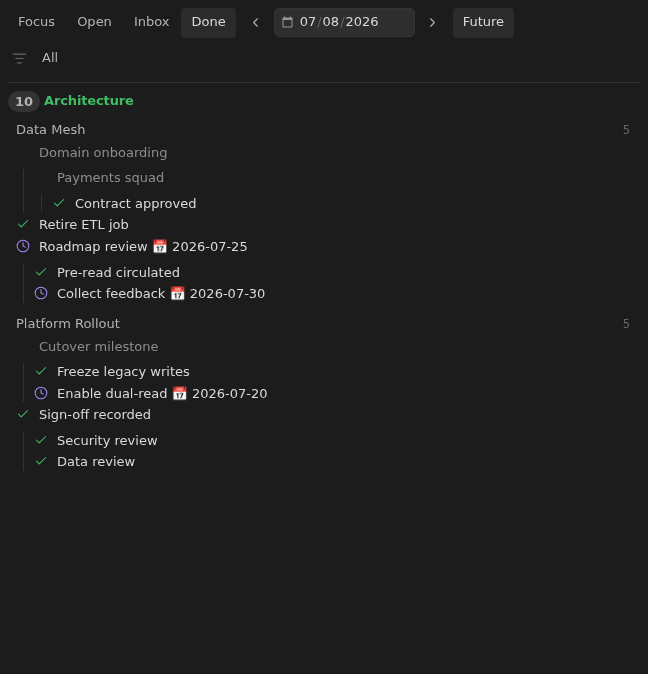
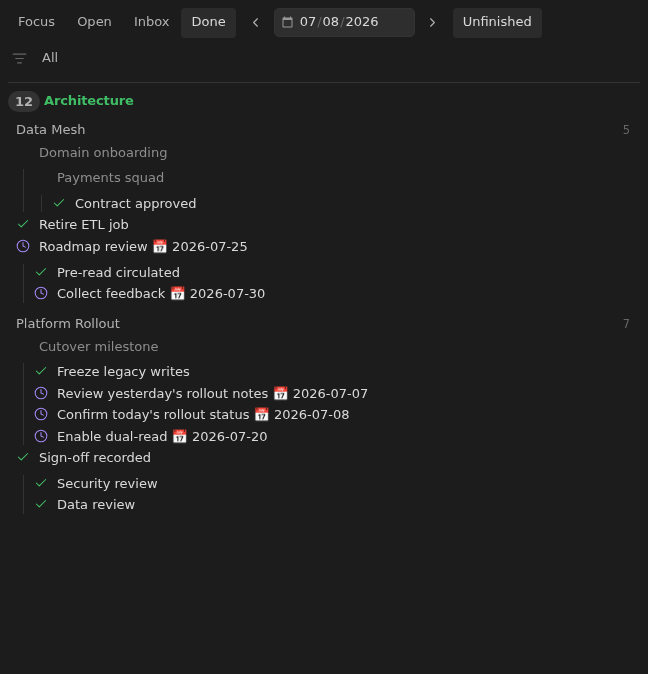
save

Changed region(s): [[0.0309, 0.5608, 0.5556, 0.7789], [0.7099, 0.0, 0.8025, 0.0623]]

diff --git a/docs/features/views-done/index.html b/docs/features/views-done/index.html
@@ -1,4 +1,4 @@
-<!DOCTYPE html><html lang="en" dir="ltr" data-theme="dark" data-has-toc data-has-sidebar class="astro-vdxcvpsm"><head><meta charset="utf-8"/><meta name="viewport" content="width=device-width, initial-scale=1"/><title>Done view | Tasks Eye</title><link rel="canonical" href="https://ggajos.github.io/ggajos-tasks-eye/features/views-done/"/><link rel="sitemap" href="/ggajos-tasks-eye/sitemap-index.xml"/><script>try{if(!localStorage.getItem('starlight-theme'))localStorage.setItem('starlight-theme','dark')}catch{}</script><link rel="shortcut icon" href="/ggajos-tasks-eye/favicon.svg" type="image/svg+xml"/><meta name="generator" content="Astro v7.0.7"/><meta name="generator" content="Starlight v0.41.3"/><meta property="og:title" content="Done view"/><meta property="og:type" content="article"/><meta property="og:url" content="https://ggajos.github.io/ggajos-tasks-eye/features/views-done/"/><meta property="og:locale" content="en"/><meta property="og:description" content="Done shows the day's completed tasks alongside upcoming unfinished tasks, preserving subtask nesting and grouping by context and note."/><meta property="og:site_name" content="Tasks Eye"/><meta name="twitter:card" content="summary_large_image"/><meta name="description" content="Done shows the day's completed tasks alongside upcoming unfinished tasks, preserving subtask nesting and grouping by context and note."/><script>
+<!DOCTYPE html><html lang="en" dir="ltr" data-theme="dark" data-has-toc data-has-sidebar class="astro-vdxcvpsm"><head><meta charset="utf-8"/><meta name="viewport" content="width=device-width, initial-scale=1"/><title>Done view | Tasks Eye</title><link rel="canonical" href="https://ggajos.github.io/ggajos-tasks-eye/features/views-done/"/><link rel="sitemap" href="/ggajos-tasks-eye/sitemap-index.xml"/><script>try{if(!localStorage.getItem('starlight-theme'))localStorage.setItem('starlight-theme','dark')}catch{}</script><link rel="shortcut icon" href="/ggajos-tasks-eye/favicon.svg" type="image/svg+xml"/><meta name="generator" content="Astro v7.0.7"/><meta name="generator" content="Starlight v0.41.3"/><meta property="og:title" content="Done view"/><meta property="og:type" content="article"/><meta property="og:url" content="https://ggajos.github.io/ggajos-tasks-eye/features/views-done/"/><meta property="og:locale" content="en"/><meta property="og:description" content="Done shows the day's completed tasks alongside unfinished tasks with due dates, preserving subtask nesting and grouping by context and note."/><meta property="og:site_name" content="Tasks Eye"/><meta name="twitter:card" content="summary_large_image"/><meta name="description" content="Done shows the day's completed tasks alongside unfinished tasks with due dates, preserving subtask nesting and grouping by context and note."/><script>
 	window.StarlightThemeProvider = (() => {
 		const storedTheme =
 			typeof localStorage !== 'undefined' && localStorage.getItem('starlight-theme');
@@ -72,24 +72,25 @@
 		})();
 	</script></sl-sidebar-state-persist><div class="md:sl-hidden"><div class="mobile-preferences sl-flex astro-b5gddk54"><div class="social-icons astro-b5gddk54"><a href="https://github.com/ggajos/ggajos-tasks-eye" rel="me" class="sl-flex astro-cg55etiy"><span class="sr-only astro-cg55etiy">GitHub</span><svg aria-hidden="true" class="astro-cg55etiy astro-n5k4ipy7" width="16" height="16" viewBox="0 0 24 24" fill="currentColor" style="--sl-icon-size: 1em;"><path d="M12 .3a12 12 0 0 0-3.8 23.38c.6.12.83-.26.83-.57L9 21.07c-3.34.72-4.04-1.61-4.04-1.61-.55-1.39-1.34-1.76-1.34-1.76-1.08-.74.09-.73.09-.73 1.2.09 1.83 1.24 1.83 1.24 1.08 1.83 2.81 1.3 3.5 1 .1-.78.42-1.31.76-1.61-2.67-.3-5.47-1.33-5.47-5.93 0-1.31.47-2.38 1.24-3.22-.14-.3-.54-1.52.1-3.18 0 0 1-.32 3.3 1.23a11.5 11.5 0 0 1 6 0c2.28-1.55 3.29-1.23 3.29-1.23.64 1.66.24 2.88.12 3.18a4.65 4.65 0 0 1 1.23 3.22c0 4.61-2.8 5.63-5.48 5.92.42.36.81 1.1.81 2.22l-.01 3.29c0 .31.2.69.82.57A12 12 0 0 0 12 .3Z"/></svg></a></div><starlight-theme-select><label style="--sl-select-width: 6.25em" class="astro-r2p65idu"><span class="sr-only astro-r2p65idu">Select theme</span><svg aria-hidden="true" class="icon label-icon astro-r2p65idu astro-n5k4ipy7" width="16" height="16" viewBox="0 0 24 24" fill="currentColor" style="--sl-icon-size: 1em;"><path d="M21 14h-1V7a3 3 0 0 0-3-3H7a3 3 0 0 0-3 3v7H3a1 1 0 0 0-1 1v2a3 3 0 0 0 3 3h14a3 3 0 0 0 3-3v-2a1 1 0 0 0-1-1ZM6 7a1 1 0 0 1 1-1h10a1 1 0 0 1 1 1v7H6V7Zm14 10a1 1 0 0 1-1 1H5a1 1 0 0 1-1-1v-1h16v1Z"/></svg><select autocomplete="off" class="astro-r2p65idu"><option value="dark" class="astro-r2p65idu">Dark</option><option value="light" class="astro-r2p65idu">Light</option><option value="auto" selected class="astro-r2p65idu">Auto</option></select><svg aria-hidden="true" class="icon caret astro-r2p65idu astro-n5k4ipy7" width="16" height="16" viewBox="0 0 24 24" fill="currentColor" style="--sl-icon-size: 1em;"><path d="M17 9.17a1 1 0 0 0-1.41 0L12 12.71 8.46 9.17a1 1 0 1 0-1.41 1.42l4.24 4.24a1.002 1.002 0 0 0 1.42 0L17 10.59a1.002 1.002 0 0 0 0-1.42Z"/></svg></label></starlight-theme-select><script>
 	StarlightThemeProvider.updatePickers();
-</script></div></div></div></div></nav><div class="main-frame astro-gqpr5s5a"><script type="module">var e=document.getElementById(`starlight__sidebar`),t=e?.querySelector(`sl-sidebar-state-persist`),n=`sl-sidebar-state`,r=()=>{let r=[],i=t?.dataset.hash||``;try{let e=sessionStorage.getItem(n),t=JSON.parse(e||`{}`);Array.isArray(t.open)&&t.hash===i&&(r=t.open)}catch{}return{hash:i,open:r,scroll:e?.scrollTop||0}},i=e=>{try{sessionStorage.setItem(n,JSON.stringify(e))}catch{}},a=()=>i(r()),o=(e,t)=>{let n=r();n.open[t]=e,i(n)};t?.addEventListener(`click`,e=>{if(!(e.target instanceof Element))return;let t=e.target.closest(`summary`)?.closest(`details`);if(!t)return;let n=t.querySelector(`sl-sidebar-restore`),r=parseInt(n?.dataset.index||``);isNaN(r)||o(!t.open,r)}),addEventListener(`visibilitychange`,()=>{document.visibilityState===`hidden`&&a()}),addEventListener(`pageHide`,a);</script><div class="lg:sl-flex astro-abfeecmu"><aside class="right-sidebar-container print:hidden astro-abfeecmu"><div class="right-sidebar astro-abfeecmu"><div class="lg:sl-hidden astro-q5mffni3"><mobile-starlight-toc data-min-h="2" data-max-h="3" class="astro-5ulgm6bh"><nav aria-labelledby="starlight__on-this-page--mobile" class="astro-5ulgm6bh"><details id="starlight__mobile-toc" class="astro-5ulgm6bh"><summary id="starlight__on-this-page--mobile" class="sl-flex astro-5ulgm6bh"><span class="toggle sl-flex astro-5ulgm6bh">On this page<svg aria-hidden="true" class="caret astro-5ulgm6bh astro-n5k4ipy7" width="16" height="16" viewBox="0 0 24 24" fill="currentColor" style="--sl-icon-size: 1rem;"><path d="m14.83 11.29-4.24-4.24a1 1 0 1 0-1.42 1.41L12.71 12l-3.54 3.54a1 1 0 0 0 0 1.41 1 1 0 0 0 .71.29 1 1 0 0 0 .71-.29l4.24-4.24a1.002 1.002 0 0 0 0-1.42Z"/></svg></span><span class="display-current astro-5ulgm6bh"></span></summary><div class="dropdown astro-5ulgm6bh"><ul class="isMobile astro-cxyftcne" style="--depth: 0;"><li style="--depth: 0;" class="astro-cxyftcne"><a href="#_top" style="--depth: 0;" class="astro-cxyftcne"><span style="--depth: 0;" class="astro-cxyftcne">Overview</span></a></li><li style="--depth: 0;" class="astro-cxyftcne"><a href="#why-it-matters" style="--depth: 0;" class="astro-cxyftcne"><span style="--depth: 0;" class="astro-cxyftcne">Why it matters</span></a></li><li style="--depth: 0;" class="astro-cxyftcne"><a href="#what-to-expect" style="--depth: 0;" class="astro-cxyftcne"><span style="--depth: 0;" class="astro-cxyftcne">What to expect</span></a></li><li style="--depth: 0;" class="astro-cxyftcne"><a href="#what-it-looks-like" style="--depth: 0;" class="astro-cxyftcne"><span style="--depth: 0;" class="astro-cxyftcne">What it looks like</span></a><ul class="isMobile astro-cxyftcne" style="--depth: 1;"><li style="--depth: 1;" class="astro-cxyftcne"><a href="#done-view" style="--depth: 1;" class="astro-cxyftcne"><span style="--depth: 1;" class="astro-cxyftcne">Done view</span></a></li><li style="--depth: 1;" class="astro-cxyftcne"><a href="#done-with-future-tasks-and-nesting" style="--depth: 1;" class="astro-cxyftcne"><span style="--depth: 1;" class="astro-cxyftcne">Done with future tasks and nesting</span></a></li></ul></li></ul></div></details></nav></mobile-starlight-toc><script type="module" src="/ggajos-tasks-eye/assets/starlight/MobileTableOfContents.astro_astro_type_script_index_0_lang.BcSo_yiZ.js"></script></div><div class="right-sidebar-panel sl-hidden lg:sl-block astro-q5mffni3"><div class="sl-container astro-q5mffni3"><starlight-toc data-min-h="2" data-max-h="3"><nav aria-labelledby="starlight__on-this-page"><h2 id="starlight__on-this-page">On this page</h2><ul class="astro-cxyftcne" style="--depth: 0;"><li style="--depth: 0;" class="astro-cxyftcne"><a href="#_top" style="--depth: 0;" class="astro-cxyftcne"><span style="--depth: 0;" class="astro-cxyftcne">Overview</span></a></li><li style="--depth: 0;" class="astro-cxyftcne"><a href="#why-it-matters" style="--depth: 0;" class="astro-cxyftcne"><span style="--depth: 0;" class="astro-cxyftcne">Why it matters</span></a></li><li style="--depth: 0;" class="astro-cxyftcne"><a href="#what-to-expect" style="--depth: 0;" class="astro-cxyftcne"><span style="--depth: 0;" class="astro-cxyftcne">What to expect</span></a></li><li style="--depth: 0;" class="astro-cxyftcne"><a href="#what-it-looks-like" style="--depth: 0;" class="astro-cxyftcne"><span style="--depth: 0;" class="astro-cxyftcne">What it looks like</span></a><ul class="astro-cxyftcne" style="--depth: 1;"><li style="--depth: 1;" class="astro-cxyftcne"><a href="#done-view" style="--depth: 1;" class="astro-cxyftcne"><span style="--depth: 1;" class="astro-cxyftcne">Done view</span></a></li><li style="--depth: 1;" class="astro-cxyftcne"><a href="#done-with-future-tasks-and-nesting" style="--depth: 1;" class="astro-cxyftcne"><span style="--depth: 1;" class="astro-cxyftcne">Done with future tasks and nesting</span></a></li></ul></li></ul></nav></starlight-toc><script type="module" src="/ggajos-tasks-eye/assets/starlight/TableOfContents.astro_astro_type_script_index_0_lang.Csloo1VZ.js"></script></div></div></div></aside><div class="main-pane astro-abfeecmu"><main data-pagefind-body class="astro-vdxcvpsm" lang="en" dir="ltr"><div class="content-panel astro-oil7k7jf"><div class="sl-container astro-oil7k7jf"><h1 id="_top" class="astro-2sm4b3ln">Done view</h1></div></div><div class="content-panel astro-oil7k7jf"><div class="sl-container astro-oil7k7jf"><div class="sl-markdown-content">
-<p>Done shows the day’s completed tasks alongside upcoming unfinished tasks, preserving subtask nesting and grouping by context and note.</p>
+</script></div></div></div></div></nav><div class="main-frame astro-gqpr5s5a"><script type="module">var e=document.getElementById(`starlight__sidebar`),t=e?.querySelector(`sl-sidebar-state-persist`),n=`sl-sidebar-state`,r=()=>{let r=[],i=t?.dataset.hash||``;try{let e=sessionStorage.getItem(n),t=JSON.parse(e||`{}`);Array.isArray(t.open)&&t.hash===i&&(r=t.open)}catch{}return{hash:i,open:r,scroll:e?.scrollTop||0}},i=e=>{try{sessionStorage.setItem(n,JSON.stringify(e))}catch{}},a=()=>i(r()),o=(e,t)=>{let n=r();n.open[t]=e,i(n)};t?.addEventListener(`click`,e=>{if(!(e.target instanceof Element))return;let t=e.target.closest(`summary`)?.closest(`details`);if(!t)return;let n=t.querySelector(`sl-sidebar-restore`),r=parseInt(n?.dataset.index||``);isNaN(r)||o(!t.open,r)}),addEventListener(`visibilitychange`,()=>{document.visibilityState===`hidden`&&a()}),addEventListener(`pageHide`,a);</script><div class="lg:sl-flex astro-abfeecmu"><aside class="right-sidebar-container print:hidden astro-abfeecmu"><div class="right-sidebar astro-abfeecmu"><div class="lg:sl-hidden astro-q5mffni3"><mobile-starlight-toc data-min-h="2" data-max-h="3" class="astro-5ulgm6bh"><nav aria-labelledby="starlight__on-this-page--mobile" class="astro-5ulgm6bh"><details id="starlight__mobile-toc" class="astro-5ulgm6bh"><summary id="starlight__on-this-page--mobile" class="sl-flex astro-5ulgm6bh"><span class="toggle sl-flex astro-5ulgm6bh">On this page<svg aria-hidden="true" class="caret astro-5ulgm6bh astro-n5k4ipy7" width="16" height="16" viewBox="0 0 24 24" fill="currentColor" style="--sl-icon-size: 1rem;"><path d="m14.83 11.29-4.24-4.24a1 1 0 1 0-1.42 1.41L12.71 12l-3.54 3.54a1 1 0 0 0 0 1.41 1 1 0 0 0 .71.29 1 1 0 0 0 .71-.29l4.24-4.24a1.002 1.002 0 0 0 0-1.42Z"/></svg></span><span class="display-current astro-5ulgm6bh"></span></summary><div class="dropdown astro-5ulgm6bh"><ul class="isMobile astro-cxyftcne" style="--depth: 0;"><li style="--depth: 0;" class="astro-cxyftcne"><a href="#_top" style="--depth: 0;" class="astro-cxyftcne"><span style="--depth: 0;" class="astro-cxyftcne">Overview</span></a></li><li style="--depth: 0;" class="astro-cxyftcne"><a href="#why-it-matters" style="--depth: 0;" class="astro-cxyftcne"><span style="--depth: 0;" class="astro-cxyftcne">Why it matters</span></a></li><li style="--depth: 0;" class="astro-cxyftcne"><a href="#what-to-expect" style="--depth: 0;" class="astro-cxyftcne"><span style="--depth: 0;" class="astro-cxyftcne">What to expect</span></a></li><li style="--depth: 0;" class="astro-cxyftcne"><a href="#what-it-looks-like" style="--depth: 0;" class="astro-cxyftcne"><span style="--depth: 0;" class="astro-cxyftcne">What it looks like</span></a><ul class="isMobile astro-cxyftcne" style="--depth: 1;"><li style="--depth: 1;" class="astro-cxyftcne"><a href="#done-view" style="--depth: 1;" class="astro-cxyftcne"><span style="--depth: 1;" class="astro-cxyftcne">Done view</span></a></li><li style="--depth: 1;" class="astro-cxyftcne"><a href="#done-with-unfinished-tasks-and-nesting" style="--depth: 1;" class="astro-cxyftcne"><span style="--depth: 1;" class="astro-cxyftcne">Done with unfinished tasks and nesting</span></a></li></ul></li></ul></div></details></nav></mobile-starlight-toc><script type="module" src="/ggajos-tasks-eye/assets/starlight/MobileTableOfContents.astro_astro_type_script_index_0_lang.BcSo_yiZ.js"></script></div><div class="right-sidebar-panel sl-hidden lg:sl-block astro-q5mffni3"><div class="sl-container astro-q5mffni3"><starlight-toc data-min-h="2" data-max-h="3"><nav aria-labelledby="starlight__on-this-page"><h2 id="starlight__on-this-page">On this page</h2><ul class="astro-cxyftcne" style="--depth: 0;"><li style="--depth: 0;" class="astro-cxyftcne"><a href="#_top" style="--depth: 0;" class="astro-cxyftcne"><span style="--depth: 0;" class="astro-cxyftcne">Overview</span></a></li><li style="--depth: 0;" class="astro-cxyftcne"><a href="#why-it-matters" style="--depth: 0;" class="astro-cxyftcne"><span style="--depth: 0;" class="astro-cxyftcne">Why it matters</span></a></li><li style="--depth: 0;" class="astro-cxyftcne"><a href="#what-to-expect" style="--depth: 0;" class="astro-cxyftcne"><span style="--depth: 0;" class="astro-cxyftcne">What to expect</span></a></li><li style="--depth: 0;" class="astro-cxyftcne"><a href="#what-it-looks-like" style="--depth: 0;" class="astro-cxyftcne"><span style="--depth: 0;" class="astro-cxyftcne">What it looks like</span></a><ul class="astro-cxyftcne" style="--depth: 1;"><li style="--depth: 1;" class="astro-cxyftcne"><a href="#done-view" style="--depth: 1;" class="astro-cxyftcne"><span style="--depth: 1;" class="astro-cxyftcne">Done view</span></a></li><li style="--depth: 1;" class="astro-cxyftcne"><a href="#done-with-unfinished-tasks-and-nesting" style="--depth: 1;" class="astro-cxyftcne"><span style="--depth: 1;" class="astro-cxyftcne">Done with unfinished tasks and nesting</span></a></li></ul></li></ul></nav></starlight-toc><script type="module" src="/ggajos-tasks-eye/assets/starlight/TableOfContents.astro_astro_type_script_index_0_lang.Csloo1VZ.js"></script></div></div></div></aside><div class="main-pane astro-abfeecmu"><main data-pagefind-body class="astro-vdxcvpsm" lang="en" dir="ltr"><div class="content-panel astro-oil7k7jf"><div class="sl-container astro-oil7k7jf"><h1 id="_top" class="astro-2sm4b3ln">Done view</h1></div></div><div class="content-panel astro-oil7k7jf"><div class="sl-container astro-oil7k7jf"><div class="sl-markdown-content">
+<p>Done shows the day’s completed tasks alongside unfinished tasks with due dates, preserving subtask nesting and grouping by context and note.</p>
 <div class="sl-heading-wrapper level-h2"><h2 id="why-it-matters">Why it matters</h2><a class="sl-anchor-link" href="#why-it-matters"><span aria-hidden="true" class="sl-anchor-icon"><svg width="16" height="16" viewBox="0 0 24 24" fill="currentColor"><path d="m12.11 15.39-3.88 3.88a2.52 2.52 0 0 1-3.5 0 2.47 2.47 0 0 1 0-3.5l3.88-3.88a1 1 0 1 0-1.42-1.42l-3.88 3.89a4.48 4.48 0 0 0 6.33 6.33l3.89-3.88a1 1 0 0 0-1.42-1.42m8.58-12.08a4.49 4.49 0 0 0-6.33 0l-3.89 3.88a1 1 0 1 0 1.42 1.42l3.88-3.88a2.52 2.52 0 0 1 3.5 0 2.47 2.47 0 0 1 0 3.5l-3.88 3.88a1 1 0 0 0 0 1.42 1 1 0 0 0 1.42 0l3.88-3.89a4.49 4.49 0 0 0 0-6.33M8.83 15.17a1 1 0 0 0 .71.29 1 1 0 0 0 .71-.29l4.92-4.92a1 1 0 1 0-1.42-1.42l-4.92 4.92a1 1 0 0 0 0 1.42"></path></svg></span><span class="sr-only" data-pagefind-ignore>Section titled “Why it matters”</span></a></div>
 <p>Completed work is useful after the checkbox changes. Done gives that history a
 focused view where the user can review a day, switch dates, and see the work
 grouped by the same contexts used on the boards without opening another view.</p>
 <p>The view reads completion dates from Tasks metadata so it does not need a
-separate history log. A “Future” toggle extends the day’s history with any
-unfinished tasks that carry a future due date, but only inside notes that also
-completed a task on the selected day, so the view stays a focused overview of
-what happened and what is coming next for the notes you touched. Subtask nesting
-is reproduced using Tasks’ emoji format, so completed subtasks stay under their
+separate history log. An “Unfinished” toggle extends the day’s history with any
+unfinished task that carries a due date, whether that date is past, today, or
+future. It only includes those tasks inside notes that also completed a task on
+the selected day, so the view stays a focused overview of what happened and
+what still needs attention in the notes you touched. Subtask nesting is
+reproduced using Tasks’ emoji format, so completed subtasks stay under their
 parent instead of collapsing into a flat list.</p>
 <div class="sl-heading-wrapper level-h2"><h2 id="what-to-expect">What to expect</h2><a class="sl-anchor-link" href="#what-to-expect"><span aria-hidden="true" class="sl-anchor-icon"><svg width="16" height="16" viewBox="0 0 24 24" fill="currentColor"><path d="m12.11 15.39-3.88 3.88a2.52 2.52 0 0 1-3.5 0 2.47 2.47 0 0 1 0-3.5l3.88-3.88a1 1 0 1 0-1.42-1.42l-3.88 3.89a4.48 4.48 0 0 0 6.33 6.33l3.89-3.88a1 1 0 0 0-1.42-1.42m8.58-12.08a4.49 4.49 0 0 0-6.33 0l-3.89 3.88a1 1 0 1 0 1.42 1.42l3.88-3.88a2.52 2.52 0 0 1 3.5 0 2.47 2.47 0 0 1 0 3.5l-3.88 3.88a1 1 0 0 0 0 1.42 1 1 0 0 0 1.42 0l3.88-3.89a4.49 4.49 0 0 0 0-6.33M8.83 15.17a1 1 0 0 0 .71.29 1 1 0 0 0 .71-.29l4.92-4.92a1 1 0 1 0-1.42-1.42l-4.92 4.92a1 1 0 0 0 0 1.42"></path></svg></span><span class="sr-only" data-pagefind-ignore>Section titled “What to expect”</span></a></div>
 <ul>
 <li>Done is the fifth view in Tasks Eye navigation.</li>
 <li>Completed tasks are selected by Tasks completion date.</li>
-<li>A ‘Future’ toggle adds upcoming unfinished tasks, but only inside notes that also have a task completed on the selected day.</li>
+<li>An ‘Unfinished’ toggle adds every unfinished task with a due date, but only inside notes that also have a task completed on the selected day.</li>
 <li>Subtask nesting is preserved; ancestors of a matching task appear as muted context rows without a completion check.</li>
 <li>Tasks are grouped by folder-derived context and note name.</li>
 <li>The date picker and previous/next/today controls change the reviewed date.</li>
@@ -126,5 +127,5 @@ parent instead of collapsing into a flat list.</p>
 	customElements.define('starlight-tabs-restore', StarlightTabsRestore);
 })()
 </script><starlight-tabs data-sync-key="feature-screenshot-theme" class="astro-hbt4ddzs"><div class="tablist-wrapper not-content astro-hbt4ddzs"><ul role="tablist" class="astro-hbt4ddzs"><li role="presentation" class="tab astro-hbt4ddzs"><a role="tab" href="#tab-panel-27" id="tab-27" aria-selected="true" tabindex="0" class="astro-hbt4ddzs">Dark Minimal</a></li><li role="presentation" class="tab astro-hbt4ddzs"><a role="tab" href="#tab-panel-28" id="tab-28" aria-selected="false" tabindex="-1" class="astro-hbt4ddzs">Dark</a></li><li role="presentation" class="tab astro-hbt4ddzs"><a role="tab" href="#tab-panel-29" id="tab-29" aria-selected="false" tabindex="-1" class="astro-hbt4ddzs">Light</a></li></ul></div><div id="tab-panel-27" aria-labelledby="tab-27" role="tabpanel" tabindex="0"><figure class="feature-shot"><img src="../../assets/features/views-done/dark-minimal/done-view.png" alt="Tasks Eye Done view showing completed architecture decisions grouped by context and note in Dark Minimal" loading="lazy"><figcaption>Done view · Dark Minimal</figcaption></figure></div><div id="tab-panel-28" aria-labelledby="tab-28" role="tabpanel" tabindex="0" hidden><figure class="feature-shot"><img src="../../assets/features/views-done/dark/done-view.png" alt="Tasks Eye Done view showing completed architecture decisions grouped by context and note in Dark" loading="lazy"><figcaption>Done view · Dark</figcaption></figure></div><div id="tab-panel-29" aria-labelledby="tab-29" role="tabpanel" tabindex="0" hidden><figure class="feature-shot"><img src="../../assets/features/views-done/light/done-view.png" alt="Tasks Eye Done view showing completed architecture decisions grouped by context and note in Light" loading="lazy"><figcaption>Done view · Light</figcaption></figure></div><starlight-tabs-restore class="astro-hbt4ddzs"></starlight-tabs-restore></starlight-tabs><script type="module">var e=class e extends HTMLElement{static#e=new Map;tabs;panels;#t;#n=`starlight-synced-tabs__`;constructor(){super();let t=this.querySelector(`[role="tablist"]`);if(this.tabs=[...t.querySelectorAll(`[role="tab"]`)],this.panels=[...this.querySelectorAll(`:scope > [role="tabpanel"]`)],this.#t=this.dataset.syncKey,this.#t){let t=e.#e.get(this.#t)??[];t.push(this),e.#e.set(this.#t,t)}this.tabs.forEach((e,n)=>{e.addEventListener(`click`,e=>{e.preventDefault();let r=t.querySelector(`[aria-selected="true"]`);e.currentTarget!==r&&this.switchTab(e.currentTarget,n)}),e.addEventListener(`keydown`,e=>{let t=this.tabs.indexOf(e.currentTarget),n=e.key===`ArrowLeft`?t-1:e.key===`ArrowRight`?t+1:e.key===`Home`?0:e.key===`End`?this.tabs.length-1:null;n!==null&&this.tabs[n]&&(e.preventDefault(),this.switchTab(this.tabs[n],n))})})}switchTab(t,n,r=!0){if(!t)return;let i=r?this.getBoundingClientRect().top:0;this.tabs.forEach(e=>{e.setAttribute(`aria-selected`,`false`),e.setAttribute(`tabindex`,`-1`)}),this.panels.forEach(e=>{e.hidden=!0});let a=this.panels[n];a&&(a.hidden=!1),t.removeAttribute(`tabindex`),t.setAttribute(`aria-selected`,`true`),r&&(t.focus(),e.#i(this,t),window.scrollTo({top:window.scrollY+(this.getBoundingClientRect().top-i),behavior:`instant`}))}#r(e){!this.#t||typeof localStorage>`u`||localStorage.setItem(this.#n+this.#t,e)}static#i(t,n){let r=t.#t,i=e.#a(n);if(!r||!i)return;let a=e.#e.get(r);if(a){for(let n of a){if(n===t)continue;let r=n.tabs.findIndex(t=>e.#a(t)===i);r!==-1&&n.switchTab(n.tabs[r],r,!1)}t.#r(i)}}static#a(e){return e.textContent?.trim()}};customElements.define(`starlight-tabs`,e);</script>
-<div class="sl-heading-wrapper level-h3"><h3 id="done-with-future-tasks-and-nesting">Done with future tasks and nesting</h3><a class="sl-anchor-link" href="#done-with-future-tasks-and-nesting"><span aria-hidden="true" class="sl-anchor-icon"><svg width="16" height="16" viewBox="0 0 24 24" fill="currentColor"><path d="m12.11 15.39-3.88 3.88a2.52 2.52 0 0 1-3.5 0 2.47 2.47 0 0 1 0-3.5l3.88-3.88a1 1 0 1 0-1.42-1.42l-3.88 3.89a4.48 4.48 0 0 0 6.33 6.33l3.89-3.88a1 1 0 0 0-1.42-1.42m8.58-12.08a4.49 4.49 0 0 0-6.33 0l-3.89 3.88a1 1 0 1 0 1.42 1.42l3.88-3.88a2.52 2.52 0 0 1 3.5 0 2.47 2.47 0 0 1 0 3.5l-3.88 3.88a1 1 0 0 0 0 1.42 1 1 0 0 0 1.42 0l3.88-3.89a4.49 4.49 0 0 0 0-6.33M8.83 15.17a1 1 0 0 0 .71.29 1 1 0 0 0 .71-.29l4.92-4.92a1 1 0 1 0-1.42-1.42l-4.92 4.92a1 1 0 0 0 0 1.42"></path></svg></span><span class="sr-only" data-pagefind-ignore>Section titled “Done with future tasks and nesting”</span></a></div>
-<starlight-tabs data-sync-key="feature-screenshot-theme" class="astro-hbt4ddzs"><div class="tablist-wrapper not-content astro-hbt4ddzs"><ul role="tablist" class="astro-hbt4ddzs"><li role="presentation" class="tab astro-hbt4ddzs"><a role="tab" href="#tab-panel-30" id="tab-30" aria-selected="true" tabindex="0" class="astro-hbt4ddzs">Dark Minimal</a></li><li role="presentation" class="tab astro-hbt4ddzs"><a role="tab" href="#tab-panel-31" id="tab-31" aria-selected="false" tabindex="-1" class="astro-hbt4ddzs">Dark</a></li><li role="presentation" class="tab astro-hbt4ddzs"><a role="tab" href="#tab-panel-32" id="tab-32" aria-selected="false" tabindex="-1" class="astro-hbt4ddzs">Light</a></li></ul></div><div id="tab-panel-30" aria-labelledby="tab-30" role="tabpanel" tabindex="0"><figure class="feature-shot"><img src="../../assets/features/views-done/dark-minimal/done-future-nesting.png" alt="Tasks Eye Done view with Show Future enabled, showing completed and upcoming tasks nested under their parent tasks in Dark Minimal" loading="lazy"><figcaption>Done with future tasks and nesting · Dark Minimal</figcaption></figure></div><div id="tab-panel-31" aria-labelledby="tab-31" role="tabpanel" tabindex="0" hidden><figure class="feature-shot"><img src="../../assets/features/views-done/dark/done-future-nesting.png" alt="Tasks Eye Done view with Show Future enabled, showing completed and upcoming tasks nested under their parent tasks in Dark" loading="lazy"><figcaption>Done with future tasks and nesting · Dark</figcaption></figure></div><div id="tab-panel-32" aria-labelledby="tab-32" role="tabpanel" tabindex="0" hidden><figure class="feature-shot"><img src="../../assets/features/views-done/light/done-future-nesting.png" alt="Tasks Eye Done view with Show Future enabled, showing completed and upcoming tasks nested under their parent tasks in Light" loading="lazy"><figcaption>Done with future tasks and nesting · Light</figcaption></figure></div><starlight-tabs-restore class="astro-hbt4ddzs"></starlight-tabs-restore></starlight-tabs></div><footer class="sl-flex astro-xhxjzfa7"><div class="meta sl-flex astro-xhxjzfa7"></div><div class="pagination-links print:hidden astro-jgq3vlii" dir="ltr"><a href="/ggajos-tasks-eye/features/views-inbox/" rel="prev" class="astro-jgq3vlii"><svg aria-hidden="true" class="astro-jgq3vlii astro-n5k4ipy7" width="16" height="16" viewBox="0 0 24 24" fill="currentColor" style="--sl-icon-size: 1.5rem;"><path d="M17 11H9.41l3.3-3.29a1.004 1.004 0 1 0-1.42-1.42l-5 5a1 1 0 0 0-.21.33 1 1 0 0 0 0 .76 1 1 0 0 0 .21.33l5 5a1.002 1.002 0 0 0 1.639-.325 1 1 0 0 0-.219-1.095L9.41 13H17a1 1 0 0 0 0-2Z"/></svg><span class="astro-jgq3vlii">Previous<br class="astro-jgq3vlii"><span class="link-title astro-jgq3vlii">Repair notes in Inbox</span></span></a><a href="/ggajos-tasks-eye/features/actions-step-note-status/" rel="next" class="astro-jgq3vlii"><svg aria-hidden="true" class="astro-jgq3vlii astro-n5k4ipy7" width="16" height="16" viewBox="0 0 24 24" fill="currentColor" style="--sl-icon-size: 1.5rem;"><path d="M17.92 11.62a1.001 1.001 0 0 0-.21-.33l-5-5a1.003 1.003 0 1 0-1.42 1.42l3.3 3.29H7a1 1 0 0 0 0 2h7.59l-3.3 3.29a1.002 1.002 0 0 0 .325 1.639 1 1 0 0 0 1.095-.219l5-5a1 1 0 0 0 .21-.33 1 1 0 0 0 0-.76Z"/></svg><span class="astro-jgq3vlii">Next<br class="astro-jgq3vlii"><span class="link-title astro-jgq3vlii">Step a note through states</span></span></a></div></footer></div></div></main></div></div></div></div></body></html>
+<div class="sl-heading-wrapper level-h3"><h3 id="done-with-unfinished-tasks-and-nesting">Done with unfinished tasks and nesting</h3><a class="sl-anchor-link" href="#done-with-unfinished-tasks-and-nesting"><span aria-hidden="true" class="sl-anchor-icon"><svg width="16" height="16" viewBox="0 0 24 24" fill="currentColor"><path d="m12.11 15.39-3.88 3.88a2.52 2.52 0 0 1-3.5 0 2.47 2.47 0 0 1 0-3.5l3.88-3.88a1 1 0 1 0-1.42-1.42l-3.88 3.89a4.48 4.48 0 0 0 6.33 6.33l3.89-3.88a1 1 0 0 0-1.42-1.42m8.58-12.08a4.49 4.49 0 0 0-6.33 0l-3.89 3.88a1 1 0 1 0 1.42 1.42l3.88-3.88a2.52 2.52 0 0 1 3.5 0 2.47 2.47 0 0 1 0 3.5l-3.88 3.88a1 1 0 0 0 0 1.42 1 1 0 0 0 1.42 0l3.88-3.89a4.49 4.49 0 0 0 0-6.33M8.83 15.17a1 1 0 0 0 .71.29 1 1 0 0 0 .71-.29l4.92-4.92a1 1 0 1 0-1.42-1.42l-4.92 4.92a1 1 0 0 0 0 1.42"></path></svg></span><span class="sr-only" data-pagefind-ignore>Section titled “Done with unfinished tasks and nesting”</span></a></div>
+<starlight-tabs data-sync-key="feature-screenshot-theme" class="astro-hbt4ddzs"><div class="tablist-wrapper not-content astro-hbt4ddzs"><ul role="tablist" class="astro-hbt4ddzs"><li role="presentation" class="tab astro-hbt4ddzs"><a role="tab" href="#tab-panel-30" id="tab-30" aria-selected="true" tabindex="0" class="astro-hbt4ddzs">Dark Minimal</a></li><li role="presentation" class="tab astro-hbt4ddzs"><a role="tab" href="#tab-panel-31" id="tab-31" aria-selected="false" tabindex="-1" class="astro-hbt4ddzs">Dark</a></li><li role="presentation" class="tab astro-hbt4ddzs"><a role="tab" href="#tab-panel-32" id="tab-32" aria-selected="false" tabindex="-1" class="astro-hbt4ddzs">Light</a></li></ul></div><div id="tab-panel-30" aria-labelledby="tab-30" role="tabpanel" tabindex="0"><figure class="feature-shot"><img src="../../assets/features/views-done/dark-minimal/done-future-nesting.png" alt="Tasks Eye Done view with Show Unfinished enabled, showing completed and unfinished due-dated tasks nested under their parent tasks in Dark Minimal" loading="lazy"><figcaption>Done with unfinished tasks and nesting · Dark Minimal</figcaption></figure></div><div id="tab-panel-31" aria-labelledby="tab-31" role="tabpanel" tabindex="0" hidden><figure class="feature-shot"><img src="../../assets/features/views-done/dark/done-future-nesting.png" alt="Tasks Eye Done view with Show Unfinished enabled, showing completed and unfinished due-dated tasks nested under their parent tasks in Dark" loading="lazy"><figcaption>Done with unfinished tasks and nesting · Dark</figcaption></figure></div><div id="tab-panel-32" aria-labelledby="tab-32" role="tabpanel" tabindex="0" hidden><figure class="feature-shot"><img src="../../assets/features/views-done/light/done-future-nesting.png" alt="Tasks Eye Done view with Show Unfinished enabled, showing completed and unfinished due-dated tasks nested under their parent tasks in Light" loading="lazy"><figcaption>Done with unfinished tasks and nesting · Light</figcaption></figure></div><starlight-tabs-restore class="astro-hbt4ddzs"></starlight-tabs-restore></starlight-tabs></div><footer class="sl-flex astro-xhxjzfa7"><div class="meta sl-flex astro-xhxjzfa7"></div><div class="pagination-links print:hidden astro-jgq3vlii" dir="ltr"><a href="/ggajos-tasks-eye/features/views-inbox/" rel="prev" class="astro-jgq3vlii"><svg aria-hidden="true" class="astro-jgq3vlii astro-n5k4ipy7" width="16" height="16" viewBox="0 0 24 24" fill="currentColor" style="--sl-icon-size: 1.5rem;"><path d="M17 11H9.41l3.3-3.29a1.004 1.004 0 1 0-1.42-1.42l-5 5a1 1 0 0 0-.21.33 1 1 0 0 0 0 .76 1 1 0 0 0 .21.33l5 5a1.002 1.002 0 0 0 1.639-.325 1 1 0 0 0-.219-1.095L9.41 13H17a1 1 0 0 0 0-2Z"/></svg><span class="astro-jgq3vlii">Previous<br class="astro-jgq3vlii"><span class="link-title astro-jgq3vlii">Repair notes in Inbox</span></span></a><a href="/ggajos-tasks-eye/features/actions-step-note-status/" rel="next" class="astro-jgq3vlii"><svg aria-hidden="true" class="astro-jgq3vlii astro-n5k4ipy7" width="16" height="16" viewBox="0 0 24 24" fill="currentColor" style="--sl-icon-size: 1.5rem;"><path d="M17.92 11.62a1.001 1.001 0 0 0-.21-.33l-5-5a1.003 1.003 0 1 0-1.42 1.42l3.3 3.29H7a1 1 0 0 0 0 2h7.59l-3.3 3.29a1.002 1.002 0 0 0 .325 1.639 1 1 0 0 0 1.095-.219l5-5a1 1 0 0 0 .21-.33 1 1 0 0 0 0-.76Z"/></svg><span class="astro-jgq3vlii">Next<br class="astro-jgq3vlii"><span class="link-title astro-jgq3vlii">Step a note through states</span></span></a></div></footer></div></div></main></div></div></div></div></body></html>

diff --git a/features/views-done/views-done.test.ts b/features/views-done/views-done.test.ts
@@ -1,4 +1,4 @@
-import { describe, expect, it } from "vitest";
+import { describe, expect, it, vi } from "vitest";
 import type { StatusNoteGroup, StatusTaskNode } from "../../src/completedTasks";
 import {
   cleanCompletedTaskText,
@@ -7,6 +7,7 @@ import {
 import { file } from "../testSupport";
 
 const DATE = "2026-07-08";
+const PAST = "2026-07-07";
 const FUTURE = "2099-01-01";
 
 function groupsFor(
@@ -45,29 +46,54 @@ status: closed
     expect(groups[0]!.matchedCount).toBe(1);
   });
 
-  it("shows future tasks only in notes with a same-day completion when showFuture is on", () => {
-    const markdown = `---
+  it("shows unfinished tasks with past, present, and future due dates when enabled", () => {
+    const configuredToday = (window as Window & { TASKS_EYE_TODAY?: string })
+      .TASKS_EYE_TODAY;
+    vi.useFakeTimers();
+    vi.setSystemTime(new Date(2026, 6, 8, 12));
+    delete (window as Window & { TASKS_EYE_TODAY?: string }).TASKS_EYE_TODAY;
+
+    try {
+      const markdown = `---
 status: open
 ---
 
 - [x] Shipped today ✅ 2026-07-08
+- [ ] Catch up on yesterday's work 📅 ${PAST}
+- [ ] Handle today's follow-up 📅 ${DATE}
 - [ ] Plan next quarter 📅 ${FUTURE}
+- [ ] Capture an undated thought
 `;
-    const on = groupsFor(markdown, { showFuture: true });
-    const future = flatten(on[0]!.nodes).find((n) => n.text.includes("Plan"));
-    expect(future?.matched).toBe(true);
-    expect(future?.future).toBe(true);
-    expect(future?.completed).toBe(false);
-    expect(on[0]!.matchedCount).toBe(2);
+      const on = groupsFor(markdown, { showFuture: true });
+      const matched = flatten(on[0]!.nodes).filter((n) => n.matched);
+      expect(matched.map((n) => n.text)).toEqual([
+        "Shipped today",
+        `Catch up on yesterday's work 📅 ${PAST}`,
+        `Handle today's follow-up 📅 ${DATE}`,
+        `Plan next quarter 📅 ${FUTURE}`,
+      ]);
+      expect(matched.slice(1).every((n) => n.future)).toBe(true);
+      expect(matched.slice(1).every((n) => !n.completed)).toBe(true);
+      expect(on[0]!.matchedCount).toBe(4);
 
-    const off = groupsFor(markdown, { showFuture: false });
-    expect(flatten(off[0]!.nodes).some((n) => n.text.includes("Plan"))).toBe(
-      false,
-    );
-    expect(off[0]!.matchedCount).toBe(1);
+      const off = groupsFor(markdown, { showFuture: false });
+      expect(flatten(off[0]!.nodes).map((n) => n.text)).toEqual([
+        "Shipped today",
+      ]);
+      expect(off[0]!.matchedCount).toBe(1);
+    } finally {
+      if (configuredToday === undefined) {
+        delete (window as Window & { TASKS_EYE_TODAY?: string })
+          .TASKS_EYE_TODAY;
+      } else {
+        (window as Window & { TASKS_EYE_TODAY?: string }).TASKS_EYE_TODAY =
+          configuredToday;
+      }
+      vi.useRealTimers();
+    }
   });
 
-  it("hides future tasks in notes without a same-day completion", () => {
+  it("hides unfinished due-dated tasks in notes without a same-day completion", () => {
     const grouped = collectStatusGroups(
       [
         file(
@@ -130,7 +156,7 @@ status: open
     expect(groups[0]!.matchedCount).toBe(2);
   });
 
-  it("does not pull in unfinished, non-future descendants of a completed parent", () => {
+  it("does not pull in unfinished, undated descendants of a completed parent", () => {
     const groups = groupsFor(
       `---
 status: open
@@ -147,7 +173,7 @@ status: open
     expect(groups[0]!.matchedCount).toBe(1);
   });
 
-  it("mixes a completed task and a future task within one note tree", () => {
+  it("mixes a completed task and an unfinished due-dated task within one note tree", () => {
     const groups = groupsFor(
       `---
 status: open
@@ -161,9 +187,9 @@ status: open
 
     const parent = groups[0]!.nodes[0]!;
     expect(parent.matched).toBe(false);
-    const [done, upcoming] = parent.children;
+    const [done, unfinished] = parent.children;
     expect(done!.completed).toBe(true);
-    expect(upcoming!.future).toBe(true);
+    expect(unfinished!.future).toBe(true);
     expect(groups[0]!.matchedCount).toBe(2);
   });
 

diff --git a/features/views-done/wdio.ts b/features/views-done/wdio.ts
@@ -41,6 +41,9 @@ async function unifiedViewState() {
         doneRibbonCount: document.querySelectorAll(
           '[aria-label="Open Tasks Eye Done"]',
         ).length,
+        unfinishedToggleCount: document.querySelectorAll(
+          '[aria-label="Show unfinished tasks with a due date"]',
+        ).length,
         eyeRibbonCount: document.querySelectorAll(
           '[aria-label="Open Tasks Eye"]',
         ).length,
@@ -87,7 +90,8 @@ export const { acceptanceScenarios, screenshotScenarios: baseScreenshots } =
             state.icon !== "eye" ||
             state.title !== "Tasks Eye: Done — 2026-07-08" ||
             state.eyeRibbonCount !== 1 ||
-            state.doneRibbonCount !== 0
+            state.doneRibbonCount !== 0 ||
+            state.unfinishedToggleCount !== 1
           ) {
             throw new Error(
               `Unexpected unified Done state: ${JSON.stringify(state)}`,
@@ -160,6 +164,8 @@ status: open
 
 - [ ] Cutover milestone
     - [x] Freeze legacy writes ✅ 2026-07-08
+    - [ ] Review yesterday's rollout notes 📅 2026-07-07
+    - [ ] Confirm today's rollout status 📅 2026-07-08
     - [ ] Enable dual-read 📅 2026-07-20
     - [ ] Draft comms plan
 - [x] Sign-off recorded ⏫ ✅ 2026-07-08
@@ -194,6 +200,12 @@ export const screenshotScenarios = [
       const root = await tasksEyePage.openDone("Freeze legacy writes");
       await expect(root).toHaveText(
         expect.stringContaining("Enable dual-read"),
+      );
+      await expect(root).toHaveText(
+        expect.stringContaining("Review yesterday's rollout notes"),
+      );
+      await expect(root).toHaveText(
+        expect.stringContaining("Confirm today's rollout status"),
       );
       await expect(root).toHaveText(
         expect.stringContaining("Contract approved"),

diff --git a/features/views-done/feature.ts b/features/views-done/feature.ts
@@ -3,11 +3,11 @@ import { defineFeature } from "../types";
 export default defineFeature({
   title: "Done view",
   summary:
-    "Done shows the day's completed tasks alongside upcoming unfinished tasks, preserving subtask nesting and grouping by context and note.",
+    "Done shows the day's completed tasks alongside unfinished tasks with due dates, preserving subtask nesting and grouping by context and note.",
   acceptanceCriteria: [
     "Done is the fifth view in Tasks Eye navigation.",
     "Completed tasks are selected by Tasks completion date.",
-    "A 'Future' toggle adds upcoming unfinished tasks, but only inside notes that also have a task completed on the selected day.",
+    "An 'Unfinished' toggle adds every unfinished task with a due date, but only inside notes that also have a task completed on the selected day.",
     "Subtask nesting is preserved; ancestors of a matching task appear as muted context rows without a completion check.",
     "Tasks are grouped by folder-derived context and note name.",
     "The date picker and previous/next/today controls change the reviewed date.",
@@ -21,8 +21,8 @@ export default defineFeature({
     },
     {
       slug: "done-future-nesting",
-      title: "Done with future tasks and nesting",
-      alt: "Tasks Eye Done view with Show Future enabled, showing completed and upcoming tasks nested under their parent tasks",
+      title: "Done with unfinished tasks and nesting",
+      alt: "Tasks Eye Done view with Show Unfinished enabled, showing completed and unfinished due-dated tasks nested under their parent tasks",
     },
   ],
 });

diff --git a/src/completedTasks.ts b/src/completedTasks.ts
@@ -1,5 +1,4 @@
 import { getContextFromPath } from "./context";
-import { isAfterToday } from "./date";
 import { stripPrioritySignifier } from "./priority";
 import type { EyeFile, EyeTask } from "./types";
 
@@ -34,8 +33,8 @@ function isCompletedOnDate(task: EyeTask, date: string): boolean {
   return task.completed && task.text.includes(`✅ ${date}`);
 }
 
-function isFutureUnfinished(task: EyeTask): boolean {
-  return !task.completed && task.dueTs !== null && isAfterToday(task.dueTs);
+function isUnfinishedWithDueDate(task: EyeTask): boolean {
+  return !task.completed && task.dueTs !== null;
 }
 
 interface RawNode {
@@ -74,7 +73,7 @@ function pruneNode(
     .filter((child): child is StatusTaskNode => child !== null);
 
   const completed = isCompletedOnDate(node.task, date);
-  const future = showFuture && isFutureUnfinished(node.task);
+  const future = showFuture && isUnfinishedWithDueDate(node.task);
   const matched = completed || future;
 
   if (!matched && children.length === 0) return null;

diff --git a/src/view.ts b/src/view.ts
@@ -313,9 +313,9 @@ export class EyeView extends ItemView {
     const active = this.state.showFuture;
     const btn = button(
       `eye-mode-button${active ? " is-active" : ""}`,
-      "Show upcoming unfinished tasks",
+      "Show unfinished tasks with a due date",
       () => void this.setShowFuture(!active),
-      "Future",
+      "Unfinished",
     );
     btn.setAttribute("aria-pressed", `${active}`);
     return btn;

diff --git a/features/views-done/why.md b/features/views-done/why.md
@@ -5,9 +5,10 @@ focused view where the user can review a day, switch dates, and see the work
 grouped by the same contexts used on the boards without opening another view.
 
 The view reads completion dates from Tasks metadata so it does not need a
-separate history log. A "Future" toggle extends the day's history with any
-unfinished tasks that carry a future due date, but only inside notes that also
-completed a task on the selected day, so the view stays a focused overview of
-what happened and what is coming next for the notes you touched. Subtask nesting
-is reproduced using Tasks' emoji format, so completed subtasks stay under their
+separate history log. An "Unfinished" toggle extends the day's history with any
+unfinished task that carries a due date, whether that date is past, today, or
+future. It only includes those tasks inside notes that also completed a task on
+the selected day, so the view stays a focused overview of what happened and
+what still needs attention in the notes you touched. Subtask nesting is
+reproduced using Tasks' emoji format, so completed subtasks stay under their
 parent instead of collapsing into a flat list.
